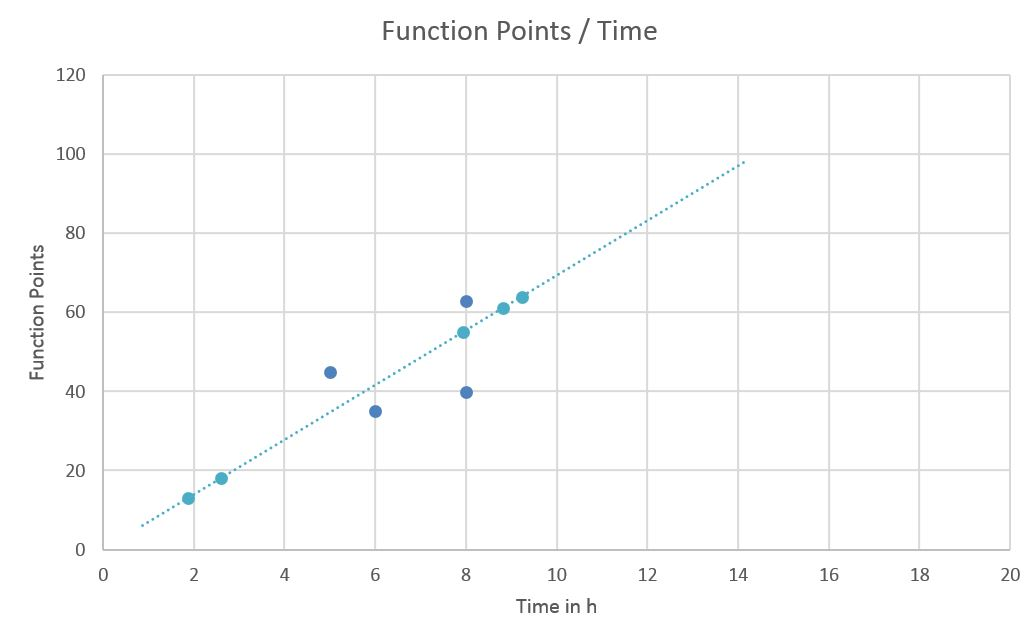
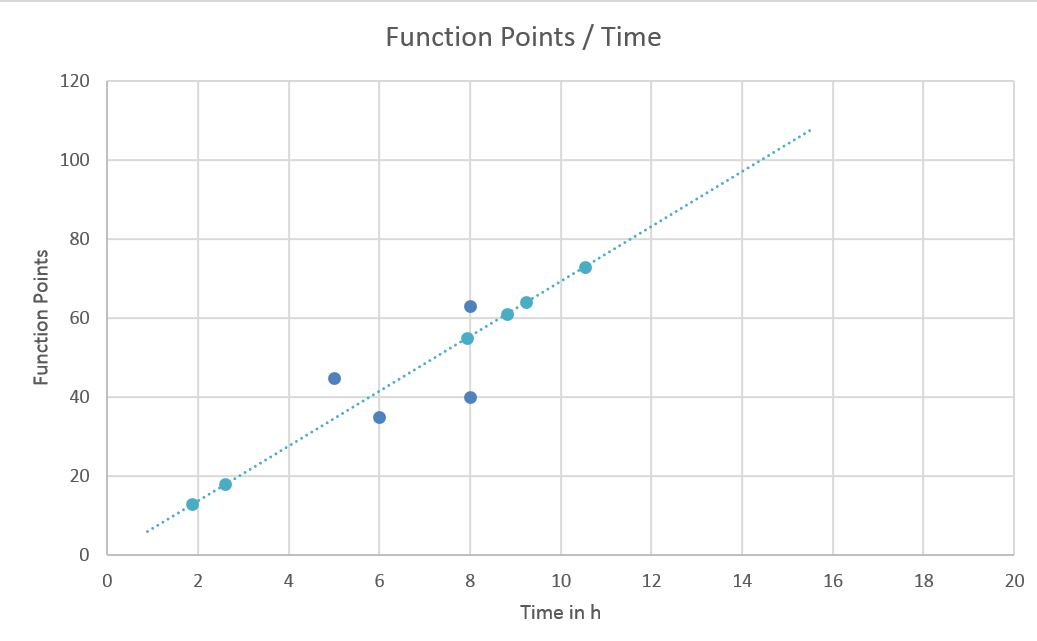
added calculation for new use case 'Music'

diff --git a/FunctionPoints/FunctionPoints.html b/FunctionPoints/FunctionPoints.html
@@ -16,28 +16,32 @@
 			We are students at the DHBW Kalrsruhe and work on a project for the course "Software Engineering".</p>
 		
 		<h2>Revision History</h2>
-		<p>
-			<table border="double">
-				<tr>
-					<th>Date</th>
-					<th>Version</th>
-					<th>Description</th>
-					<th>Author</th>
-				</tr>
-				<tr>
-					<td>06.05.2015</td>
-					<td>Version 1.0</td>
-					<td>Created document</td>
-					<td>Phillipp Perez Heil</td>
-				</tr>
-				<tr>
-					<td>20.05.2015</td>
-					<td>Version 1.1</td>
-					<td>Added burndown of successfull sprint</td>
-					<td>Phillipp Perez Heil</td>
-				</tr>
-			</table>
-		</p>
+        <table border="double">
+            <tr>
+                <th>Date</th>
+                <th>Version</th>
+                <th>Description</th>
+                <th>Author</th>
+            </tr>
+            <tr>
+                <td>06.05.2015</td>
+                <td>Version 1.0</td>
+                <td>Created document</td>
+                <td>Phillipp Perez Heil</td>
+            </tr>
+            <tr>
+                <td>20.05.2015</td>
+                <td>Version 1.1</td>
+                <td>Added burndown of successfull sprint</td>
+                <td>Phillipp Perez Heil</td>
+            </tr>
+            <tr>
+                <td>20.05.2015</td>
+                <td>Version 1.2</td>
+                <td>Added calculation of new use case 'Music'</td>
+                <td>Phillipp Perez Heil, Leo Reschetko</td>
+            </tr>
+		</table>
 		<br>
 	</div> <!-- end of container -->
 	
@@ -45,15 +49,13 @@
 
 	<div class="structure">
 		<h2>Table of Contents</h2>
-		<p>
-			<ol class="ebene1">
-				<li><a href="#1">What are function points?</a></li>
-				<li><a href="#2">Our Calculation</a></li>
-				<li><a href="#3">Graphic of FP vs. hours</a></li>
-				<li><a href="#4">Outliers</a>
-				<li><a href="#5">Successfull Sprints</a>
-			</ol>
-		</p>
+		<ol class="ebene1">
+            <li><a href="#1">What are function points?</a></li>
+            <li><a href="#2">Our Calculation</a></li>
+            <li><a href="#3">Graphic of FP vs. hours</a></li>
+            <li><a href="#4">Outliers</a>
+            <li><a href="#5">Successfull Sprints</a>
+		</ol>
 		<br>
 	</div> <!-- end of structure -->
 	
@@ -74,12 +76,11 @@
             <img src="oldUseCases.JPG">
             <p>This image shows the calculation of the next 5 new use cases:</p>
             <img src="newUseCases.jpg">
-            <p>We have 2 kinds of function points:
-                <ul>
-                    <li>These are the sub tasks we have created in jira and they are written in excel behind "Complexity" (img above).</li>
-                    <li>These are calculated FPs which are used in graphics to calculate future use case time.</li>
-                </ul>
-            </p>
+            <p>We have 2 kinds of function points:</p>
+            <ul>
+                <li>These are the sub tasks we have created in jira and they are written in excel behind "Complexity" (img above).</li>
+                <li>These are calculated FPs which are used in graphics to calculate future use case time.</li>
+            </ul>
 		</div> <!-- end of point -->
 		
 		<hr>
